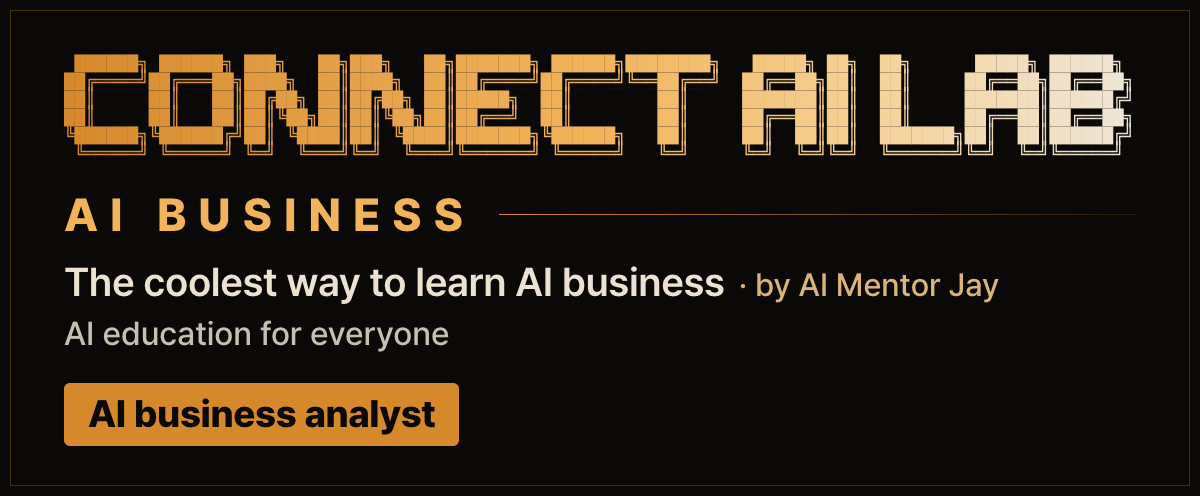
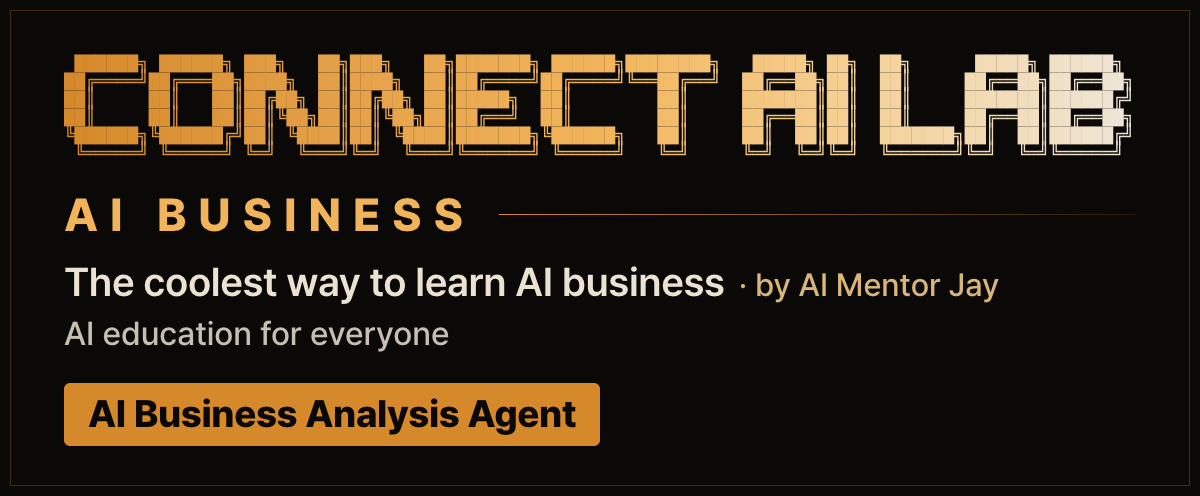
Rename: AI employee -> AI agent (AI Business Analysis Agent)
Names now read "AI ... Agent" / "AI ... 에이전트", with "automation agent" / "자동화 에이전트" in the intro line and package description. Team table: AI Agent Team (14). Chat banner and nameplate redrawn with the new name, same file names. Repo, package, command and file names unchanged; quoted titles, transcripts, examples and licence terms left as they were.

Changed region(s): [[0.0925, 0.756, 0.5242, 0.9073]]

diff --git a/README.ko.md b/README.ko.md
@@ -115,25 +115,25 @@ rebiz clone-check ./my-version --source source.json # 원본 문구·이름·이
 - MIT License. Copyright (c) 2026 CONNECT AI LAB. [LICENSE](LICENSE)
 
 <!-- team:start -->
-## CONNECT AI LAB의 AI 직원들 (14명) · ELDO 브라우저
+## CONNECT AI LAB의 AI 에이전트 팀 (14) · ELDO 브라우저
 
-AI 직원을 오픈소스로 하나씩 만들고 있어요. 필요한 직원부터 데려가 쓰거나, [ELDO 브라우저](https://eldobrowser.com)와 [`wonseokjung/eldo`](https://github.com/wonseokjung/eldo)로 14명 전체를 한 번에 설치할 수 있어요 (`npx github:wonseokjung/eldo`).
+AI 에이전트를 오픈소스로 하나씩 만들고 있어요. 필요한 에이전트부터 데려가 쓰거나, [ELDO 브라우저](https://eldobrowser.com)와 [`wonseokjung/eldo`](https://github.com/wonseokjung/eldo)로 14종 전체를 한 번에 설치할 수 있어요 (`npx github:wonseokjung/eldo`).
 
 <table>
-<tr><td width="34%" valign="top"><b>ELDO 브라우저 · 통합 허브</b><br><a href="https://eldobrowser.com"><code>eldobrowser.com</code></a> · <a href="https://github.com/wonseokjung/eldo"><code>eldo</code></a></td><td valign="top">AI 직원이 일하는 무료 브라우저(macOS 공증 · Windows). 로그인은 한 번, 실행은 AI 직원이 맡고 결제와 인증은 대표님께 넘겨요.</td></tr>
-<tr><td width="34%" valign="top"><b>AI 자율 회사 본사</b><br><a href="https://github.com/wonseokjung/connect-ai-autonomous-company"><code>connect-ai-autonomous-company</code></a></td><td valign="top">삶과 AI 직원, 오토메이션, ELDO 브라우저를 하나로 연결하는 로컬 AI 자율 회사 OS예요.</td></tr>
-<tr><td width="34%" valign="top"><b>AI 개발 직원</b><br><a href="https://github.com/wonseokjung/connect-ai-developer"><code>connect-ai-developer</code></a></td><td valign="top">한 문장 주면 가입, DB, 테스트 결제까지 붙은 서비스를 만들고 GitHub와 배포까지 연결해요.</td></tr>
-<tr><td width="34%" valign="top"><b>AI 세무회계 직원</b><br><a href="https://github.com/wonseokjung/connect-ai-accountant"><code>connect-ai-accountant</code></a></td><td valign="top">홈택스, 카드, 통장, 메일 영수증을 모아 월 비용표와 세무사님께 드릴 폴더를 만들어요.</td></tr>
-<tr><td width="34%" valign="top"><b>AI 마케터 직원</b><br><a href="https://github.com/wonseokjung/connect-ai-marketer"><code>connect-ai-marketer</code></a></td><td valign="top">내 브라우저에서 24시간 댓글, 리스닝, 유튜브 업로드 마무리를 맡는 8인 마케팅팀이에요.</td></tr>
-<tr><td width="34%" valign="top"><b>AI 글쓰기 직원</b><br><a href="https://github.com/wonseokjung/connect-ai-writer"><code>connect-ai-writer</code></a></td><td valign="top">영상이나 주제 하나로 리서치하고 플랫폼마다 내 말투로 글과 그림 초안을 써 줘요.</td></tr>
-<tr><td width="34%" valign="top"><b>AI 사업 분석 직원</b> · <b>지금 보는 직원</b><br><a href="https://github.com/wonseokjung/reversebusiness"><code>reversebusiness</code></a></td><td valign="top">사업 웹사이트 주소 하나 주면 수익 구조를 6칸으로 해부하고 내 버전을 기획해요.</td></tr>
-<tr><td width="34%" valign="top"><b>AI 이미지 직원</b><br><a href="https://github.com/wonseokjung/connect-ai-image"><code>connect-ai-image</code></a></td><td valign="top">로컬 ComfyUI + FLUX 무료 우선, 브라우저 Gemini/ChatGPT로 플랫폼별 이미지 시리즈를 그려요.</td></tr>
-<tr><td width="34%" valign="top"><b>AI 발표 자료 직원</b><br><a href="https://github.com/wonseokjung/connect-ai-slides-web"><code>connect-ai-slides-web</code></a></td><td valign="top">몇 줄 메모나 기존 PPT를 3D 모션 웹 슬라이드와 실제 파워포인트(.pptx) 파일로 만들어요.</td></tr>
-<tr><td width="34%" valign="top"><b>AI 3D 웹 직원</b><br><a href="https://github.com/wonseokjung/connect-ai-three"><code>connect-ai-three</code></a></td><td valign="top">말 한마디로 Three.js 인터랙티브 3D 웹페이지와 프레임 정확한 영상까지 같이 만들어요.</td></tr>
-<tr><td width="34%" valign="top"><b>AI 모션그래픽 직원</b><br><a href="https://github.com/wonseokjung/connect-ai-motion"><code>connect-ai-motion</code></a></td><td valign="top">글 몇 줄 주면 촬영 없이 83종 씬으로 16:9와 9:16 모션그래픽 영상을 만들어 줘요.</td></tr>
-<tr><td width="34%" valign="top"><b>AI 영상 편집 직원</b><br><a href="https://github.com/wonseokjung/connect-ai-video-motion"><code>connect-ai-video-motion</code></a></td><td valign="top">내 영상을 주면 얼굴과 손을 피해서 빈자리에 80종 모션그래픽을 알아서 넣어 줘요.</td></tr>
-<tr><td width="34%" valign="top"><b>AI XR 직원</b><br><a href="https://github.com/wonseokjung/connect-ai-xr"><code>connect-ai-xr</code></a></td><td valign="top">한 문장 주면 메타 퀘스트에서 패스스루 AR과 VR로 열리는 WebXR 앱을 만들어 줘요.</td></tr>
-<tr><td width="34%" valign="top"><b>AI 상품 사진 직원</b><br><a href="https://github.com/wonseokjung/connect-ai-product-photo"><code>connect-ai-product-photo</code></a></td><td valign="top">폰 상품 사진 폴더를 넣으면 원본 라벨은 선명하게 살린 플랫폼별 상품컷이 나와요.</td></tr>
-<tr><td width="34%" valign="top"><b>AI 번역 직원</b><br><a href="https://github.com/wonseokjung/connect-ai-localizer"><code>connect-ai-localizer</code></a></td><td valign="top">한국어 글과 영상 자막을 내 말투 그대로 영어, 일본어, 스페인어 네이티브 글로 다시 써요.</td></tr>
+<tr><td width="34%" valign="top"><b>ELDO 브라우저 · 통합 허브</b><br><a href="https://eldobrowser.com"><code>eldobrowser.com</code></a> · <a href="https://github.com/wonseokjung/eldo"><code>eldo</code></a></td><td valign="top">AI 에이전트가 일하는 무료 브라우저(macOS 공증 · Windows). 로그인은 한 번, 실행은 AI 에이전트가 맡고 결제와 인증은 대표님께 넘겨요.</td></tr>
+<tr><td width="34%" valign="top"><b>AI 자율 회사 본사</b><br><a href="https://github.com/wonseokjung/connect-ai-autonomous-company"><code>connect-ai-autonomous-company</code></a></td><td valign="top">삶과 AI 에이전트, 오토메이션, ELDO 브라우저를 하나로 연결하는 로컬 AI 자율 회사 OS예요.</td></tr>
+<tr><td width="34%" valign="top"><b>AI 개발 에이전트</b><br><a href="https://github.com/wonseokjung/connect-ai-developer"><code>connect-ai-developer</code></a></td><td valign="top">한 문장 주면 가입, DB, 테스트 결제까지 붙은 서비스를 만들고 GitHub와 배포까지 연결해요.</td></tr>
+<tr><td width="34%" valign="top"><b>AI 세무회계 에이전트</b><br><a href="https://github.com/wonseokjung/connect-ai-accountant"><code>connect-ai-accountant</code></a></td><td valign="top">홈택스, 카드, 통장, 메일 영수증을 모아 월 비용표와 세무사님께 드릴 폴더를 만들어요.</td></tr>
+<tr><td width="34%" valign="top"><b>AI 마케팅 에이전트</b><br><a href="https://github.com/wonseokjung/connect-ai-marketer"><code>connect-ai-marketer</code></a></td><td valign="top">내 브라우저에서 24시간 댓글, 리스닝, 유튜브 업로드 마무리를 맡는 8인 마케팅팀이에요.</td></tr>
+<tr><td width="34%" valign="top"><b>AI 글쓰기 에이전트</b><br><a href="https://github.com/wonseokjung/connect-ai-writer"><code>connect-ai-writer</code></a></td><td valign="top">영상이나 주제 하나로 리서치하고 플랫폼마다 내 말투로 글과 그림 초안을 써 줘요.</td></tr>
+<tr><td width="34%" valign="top"><b>AI 사업 분석 에이전트</b> · <b>지금 보는 에이전트</b><br><a href="https://github.com/wonseokjung/reversebusiness"><code>reversebusiness</code></a></td><td valign="top">사업 웹사이트 주소 하나 주면 수익 구조를 6칸으로 해부하고 내 버전을 기획해요.</td></tr>
+<tr><td width="34%" valign="top"><b>AI 이미지 에이전트</b><br><a href="https://github.com/wonseokjung/connect-ai-image"><code>connect-ai-image</code></a></td><td valign="top">로컬 ComfyUI + FLUX 무료 우선, 브라우저 Gemini/ChatGPT로 플랫폼별 이미지 시리즈를 그려요.</td></tr>
+<tr><td width="34%" valign="top"><b>AI 발표 자료 에이전트</b><br><a href="https://github.com/wonseokjung/connect-ai-slides-web"><code>connect-ai-slides-web</code></a></td><td valign="top">몇 줄 메모나 기존 PPT를 3D 모션 웹 슬라이드와 실제 파워포인트(.pptx) 파일로 만들어요.</td></tr>
+<tr><td width="34%" valign="top"><b>AI Web 3D 에이전트</b><br><a href="https://github.com/wonseokjung/connect-ai-three"><code>connect-ai-three</code></a></td><td valign="top">말 한마디로 Three.js 인터랙티브 3D 웹페이지와 프레임 정확한 영상까지 같이 만들어요.</td></tr>
+<tr><td width="34%" valign="top"><b>AI 모션그래픽 에이전트</b><br><a href="https://github.com/wonseokjung/connect-ai-motion"><code>connect-ai-motion</code></a></td><td valign="top">글 몇 줄 주면 촬영 없이 83종 씬으로 16:9와 9:16 모션그래픽 영상을 만들어 줘요.</td></tr>
+<tr><td width="34%" valign="top"><b>AI 영상 편집 에이전트</b><br><a href="https://github.com/wonseokjung/connect-ai-video-motion"><code>connect-ai-video-motion</code></a></td><td valign="top">내 영상을 주면 얼굴과 손을 피해서 빈자리에 80종 모션그래픽을 알아서 넣어 줘요.</td></tr>
+<tr><td width="34%" valign="top"><b>AI XR 에이전트</b><br><a href="https://github.com/wonseokjung/connect-ai-xr"><code>connect-ai-xr</code></a></td><td valign="top">한 문장 주면 메타 퀘스트에서 패스스루 AR과 VR로 열리는 WebXR 앱을 만들어 줘요.</td></tr>
+<tr><td width="34%" valign="top"><b>AI 상품 사진 에이전트</b><br><a href="https://github.com/wonseokjung/connect-ai-product-photo"><code>connect-ai-product-photo</code></a></td><td valign="top">폰 상품 사진 폴더를 넣으면 원본 라벨은 선명하게 살린 플랫폼별 상품컷이 나와요.</td></tr>
+<tr><td width="34%" valign="top"><b>AI 번역 에이전트</b><br><a href="https://github.com/wonseokjung/connect-ai-localizer"><code>connect-ai-localizer</code></a></td><td valign="top">한국어 글과 영상 자막을 내 말투 그대로 영어, 일본어, 스페인어 네이티브 글로 다시 써요.</td></tr>
 </table>
 <!-- team:end -->

diff --git a/README.md b/README.md
@@ -133,25 +133,25 @@ Cross-platform CI (`.github/workflows/test.yml`) runs the full suite on `ubuntu-
 - **reversebusiness**: MIT License, Copyright (c) 2026 CONNECT AI LAB. See [LICENSE](LICENSE).
 
 <!-- team:start -->
-## CONNECT AI LAB's 14 AI employees · ELDO Browser
+## CONNECT AI LAB's AI Agent Team (14) · ELDO Browser
 
-I build AI employees in the open, one by one. Grab the one you need, or browse and hire all 14 with [ELDO Browser](https://eldobrowser.com) and [`wonseokjung/eldo`](https://github.com/wonseokjung/eldo) (`npx github:wonseokjung/eldo`).
+I build AI agents in the open, one by one. Grab the one you need, or browse and hire all 14 with [ELDO Browser](https://eldobrowser.com) and [`wonseokjung/eldo`](https://github.com/wonseokjung/eldo) (`npx github:wonseokjung/eldo`).
 
 <table>
-<tr><td width="34%" valign="top"><b>ELDO Browser · Open-Source Hub</b><br><a href="https://eldobrowser.com"><code>eldobrowser.com</code></a> · <a href="https://github.com/wonseokjung/eldo"><code>eldo</code></a></td><td valign="top">The free Browser for AI Agents (Apple Notarized macOS &amp; Windows). Sign in once; AI employees work in isolated gold spaces and hand off auth and payments to you.</td></tr>
-<tr><td width="34%" valign="top"><b>AI autonomous company HQ</b><br><a href="https://github.com/wonseokjung/connect-ai-autonomous-company"><code>connect-ai-autonomous-company</code></a></td><td valign="top">Local AI company OS connecting your life, AI employees, automations, and ELDO browser.</td></tr>
-<tr><td width="34%" valign="top"><b>AI developer</b><br><a href="https://github.com/wonseokjung/connect-ai-developer"><code>connect-ai-developer</code></a></td><td valign="top">One sentence in, a service with sign-up, database, test payments, GitHub and deploy plans out.</td></tr>
-<tr><td width="34%" valign="top"><b>AI accountant</b><br><a href="https://github.com/wonseokjung/connect-ai-accountant"><code>connect-ai-accountant</code></a></td><td valign="top">Receipts, 홈택스, card and bank in. A monthly sheet and a package for your tax accountant out.</td></tr>
-<tr><td width="34%" valign="top"><b>AI marketing team</b><br><a href="https://github.com/wonseokjung/connect-ai-marketer"><code>connect-ai-marketer</code></a></td><td valign="top">8 AI teammates handling replies, social listening and YouTube uploads 24/7 in your browser.</td></tr>
-<tr><td width="34%" valign="top"><b>AI writer</b><br><a href="https://github.com/wonseokjung/connect-ai-writer"><code>connect-ai-writer</code></a></td><td valign="top">Give it one video or topic; it researches and writes platform posts in your voice, with pictures.</td></tr>
-<tr><td width="34%" valign="top"><b>AI business analyst</b> · <b>this one</b><br><a href="https://github.com/wonseokjung/reversebusiness"><code>reversebusiness</code></a></td><td valign="top">Give it a website URL, and it breaks down how that business makes money and designs your version.</td></tr>
-<tr><td width="34%" valign="top"><b>AI image director</b><br><a href="https://github.com/wonseokjung/connect-ai-image"><code>connect-ai-image</code></a></td><td valign="top">Free-first local ComfyUI + FLUX or logged-in browser image series for every platform.</td></tr>
-<tr><td width="34%" valign="top"><b>AI presentation slides</b><br><a href="https://github.com/wonseokjung/connect-ai-slides-web"><code>connect-ai-slides-web</code></a></td><td valign="top">Turn a few lines or an old PPT into a motion-first 3D web deck and a real PowerPoint (.pptx) file.</td></tr>
-<tr><td width="34%" valign="top"><b>AI 3D web studio</b><br><a href="https://github.com/wonseokjung/connect-ai-three"><code>connect-ai-three</code></a></td><td valign="top">Say it, get an interactive Three.js 3D web page and a frame-exact film from one spec.</td></tr>
-<tr><td width="34%" valign="top"><b>AI motion designer</b><br><a href="https://github.com/wonseokjung/connect-ai-motion"><code>connect-ai-motion</code></a></td><td valign="top">Give it a few lines of text, and it makes a 16:9 and 9:16 motion graphics video. No footage needed.</td></tr>
-<tr><td width="34%" valign="top"><b>AI video editor</b><br><a href="https://github.com/wonseokjung/connect-ai-video-motion"><code>connect-ai-video-motion</code></a></td><td valign="top">Give it your video, and it puts 80 body-aware motion graphics in the empty space around you.</td></tr>
-<tr><td width="34%" valign="top"><b>AI XR developer</b><br><a href="https://github.com/wonseokjung/connect-ai-xr"><code>connect-ai-xr</code></a></td><td valign="top">Give it one sentence, and it makes a WebXR app for Meta Quest passthrough AR, VR, and desktop.</td></tr>
-<tr><td width="34%" valign="top"><b>AI product photographer</b><br><a href="https://github.com/wonseokjung/connect-ai-product-photo"><code>connect-ai-product-photo</code></a></td><td valign="top">Drop phone product photos in a folder and get platform-ready studio shots keeping real sharp labels.</td></tr>
-<tr><td width="34%" valign="top"><b>AI global localizer</b><br><a href="https://github.com/wonseokjung/connect-ai-localizer"><code>connect-ai-localizer</code></a></td><td valign="top">Rewrite your Korean post or subtitles natively for English, Japanese and Spanish in your own voice.</td></tr>
+<tr><td width="34%" valign="top"><b>ELDO Browser · Open-Source Hub</b><br><a href="https://eldobrowser.com"><code>eldobrowser.com</code></a> · <a href="https://github.com/wonseokjung/eldo"><code>eldo</code></a></td><td valign="top">The free Browser for AI Agents (Apple Notarized macOS &amp; Windows). Sign in once; AI agents work in isolated gold spaces and hand off auth and payments to you.</td></tr>
+<tr><td width="34%" valign="top"><b>AI autonomous company HQ</b><br><a href="https://github.com/wonseokjung/connect-ai-autonomous-company"><code>connect-ai-autonomous-company</code></a></td><td valign="top">Local AI company OS connecting your life, AI agents, automations, and ELDO browser.</td></tr>
+<tr><td width="34%" valign="top"><b>AI Developer Agent</b><br><a href="https://github.com/wonseokjung/connect-ai-developer"><code>connect-ai-developer</code></a></td><td valign="top">One sentence in, a service with sign-up, database, test payments, GitHub and deploy plans out.</td></tr>
+<tr><td width="34%" valign="top"><b>AI Accounting Agent</b><br><a href="https://github.com/wonseokjung/connect-ai-accountant"><code>connect-ai-accountant</code></a></td><td valign="top">Receipts, 홈택스, card and bank in. A monthly sheet and a package for your tax accountant out.</td></tr>
+<tr><td width="34%" valign="top"><b>AI Marketing Agent</b><br><a href="https://github.com/wonseokjung/connect-ai-marketer"><code>connect-ai-marketer</code></a></td><td valign="top">8 AI teammates handling replies, social listening and YouTube uploads 24/7 in your browser.</td></tr>
+<tr><td width="34%" valign="top"><b>AI Writing Agent</b><br><a href="https://github.com/wonseokjung/connect-ai-writer"><code>connect-ai-writer</code></a></td><td valign="top">Give it one video or topic; it researches and writes platform posts in your voice, with pictures.</td></tr>
+<tr><td width="34%" valign="top"><b>AI Business Analysis Agent</b> · <b>this one</b><br><a href="https://github.com/wonseokjung/reversebusiness"><code>reversebusiness</code></a></td><td valign="top">Give it a website URL, and it breaks down how that business makes money and designs your version.</td></tr>
+<tr><td width="34%" valign="top"><b>AI Image Agent</b><br><a href="https://github.com/wonseokjung/connect-ai-image"><code>connect-ai-image</code></a></td><td valign="top">Free-first local ComfyUI + FLUX or logged-in browser image series for every platform.</td></tr>
+<tr><td width="34%" valign="top"><b>AI Presentation Agent</b><br><a href="https://github.com/wonseokjung/connect-ai-slides-web"><code>connect-ai-slides-web</code></a></td><td valign="top">Turn a few lines or an old PPT into a motion-first 3D web deck and a real PowerPoint (.pptx) file.</td></tr>
+<tr><td width="34%" valign="top"><b>AI Web 3D Agent</b><br><a href="https://github.com/wonseokjung/connect-ai-three"><code>connect-ai-three</code></a></td><td valign="top">Say it, get an interactive Three.js 3D web page and a frame-exact film from one spec.</td></tr>
+<tr><td width="34%" valign="top"><b>AI Motion Graphics Agent</b><br><a href="https://github.com/wonseokjung/connect-ai-motion"><code>connect-ai-motion</code></a></td><td valign="top">Give it a few lines of text, and it makes a 16:9 and 9:16 motion graphics video. No footage needed.</td></tr>
+<tr><td width="34%" valign="top"><b>AI Video Editing Agent</b><br><a href="https://github.com/wonseokjung/connect-ai-video-motion"><code>connect-ai-video-motion</code></a></td><td valign="top">Give it your video, and it puts 80 body-aware motion graphics in the empty space around you.</td></tr>
+<tr><td width="34%" valign="top"><b>AI XR Agent</b><br><a href="https://github.com/wonseokjung/connect-ai-xr"><code>connect-ai-xr</code></a></td><td valign="top">Give it one sentence, and it makes a WebXR app for Meta Quest passthrough AR, VR, and desktop.</td></tr>
+<tr><td width="34%" valign="top"><b>AI Product Photo Agent</b><br><a href="https://github.com/wonseokjung/connect-ai-product-photo"><code>connect-ai-product-photo</code></a></td><td valign="top">Drop phone product photos in a folder and get platform-ready studio shots keeping real sharp labels.</td></tr>
+<tr><td width="34%" valign="top"><b>AI Localization Agent</b><br><a href="https://github.com/wonseokjung/connect-ai-localizer"><code>connect-ai-localizer</code></a></td><td valign="top">Rewrite your Korean post or subtitles natively for English, Japanese and Spanish in your own voice.</td></tr>
 </table>
 <!-- team:end -->

diff --git a/skill/reversebusiness/SKILL.md b/skill/reversebusiness/SKILL.md
@@ -9,25 +9,25 @@ description: 사업 웹사이트 주소 하나를 받아 그 사업을 해부한
 
 <!-- connect-ai-lab:brand -->
 ## Brand: CONNECT AI LAB, AI BUSINESS (chat only)
-You are the AI business analyst (AI 사업 해부 직원) of CONNECT AI LAB, by AI Mentor Jay. Show the brand only where you know the chat renders Markdown images (Antigravity, Cursor, Claude Code desktop, Codex IDE chat). Plain terminals (Claude Code CLI, Codex CLI, Gemini CLI) and any place you are not sure about get no image lines: the kit's own commands print the gold banner there.
-- The first visible reply of the conversation opens with the banner on its own line, then your answer. Korean: `![CONNECT AI LAB · AI BUSINESS · AI 사업 해부 직원](https://raw.githubusercontent.com/wonseokjung/reversebusiness/main/skill/reversebusiness/assets/brand/banner.ko.gif)`. Any other language: `![CONNECT AI LAB · AI BUSINESS · AI business analyst](https://raw.githubusercontent.com/wonseokjung/reversebusiness/main/skill/reversebusiness/assets/brand/banner.gif)`.
-- Every later reply opens with only the small nameplate: `![AI 사업 해부 직원](https://raw.githubusercontent.com/wonseokjung/reversebusiness/main/skill/reversebusiness/assets/brand/nameplate.ko.png)` (English: `![AI business analyst](https://raw.githubusercontent.com/wonseokjung/reversebusiness/main/skill/reversebusiness/assets/brand/nameplate.png)`).
-- The big banner shows once per conversation. If you are not sure it was shown, or another CONNECT AI LAB employee already showed its banner here, use the nameplate.
+You are the AI Business Analysis Agent (AI 사업 해부 에이전트) of CONNECT AI LAB, by AI Mentor Jay. Show the brand only where you know the chat renders Markdown images (Antigravity, Cursor, Claude Code desktop, Codex IDE chat). Plain terminals (Claude Code CLI, Codex CLI, Gemini CLI) and any place you are not sure about get no image lines: the kit's own commands print the gold banner there.
+- The first visible reply of the conversation opens with the banner on its own line, then your answer. Korean: `![CONNECT AI LAB · AI BUSINESS · AI 사업 해부 에이전트](https://raw.githubusercontent.com/wonseokjung/reversebusiness/main/skill/reversebusiness/assets/brand/banner.ko.gif)`. Any other language: `![CONNECT AI LAB · AI BUSINESS · AI Business Analysis Agent](https://raw.githubusercontent.com/wonseokjung/reversebusiness/main/skill/reversebusiness/assets/brand/banner.gif)`.
+- Every later reply opens with only the small nameplate: `![AI 사업 해부 에이전트](https://raw.githubusercontent.com/wonseokjung/reversebusiness/main/skill/reversebusiness/assets/brand/nameplate.ko.png)` (English: `![AI Business Analysis Agent](https://raw.githubusercontent.com/wonseokjung/reversebusiness/main/skill/reversebusiness/assets/brand/nameplate.png)`).
+- The big banner shows once per conversation. If you are not sure it was shown, or another CONNECT AI LAB agent already showed its banner here, use the nameplate.
 - Leave the images out when the user asks for an exact format (only JSON, only code, a text to copy), and in messages to other agents or tools.
 - Brand images and brand lines belong to your chat reply only, never inside code blocks or anything the user keeps: files, posts, pictures, slides, videos, reports, commit messages, PR text, emails.
 - The same images are in `assets/brand/` next to this SKILL.md (`banner.png` and `banner.ko.png` are the still versions).
 <!-- /connect-ai-lab:brand -->
 
-## 캐릭터 (포도청 다모 · 사업 분석 직원 · 움직이는 픽셀 명찰)
+## 캐릭터 (포도청 다모 · AI 사업 분석 에이전트 · 움직이는 픽셀 명찰)
 마크다운 이미지를 보여 주는 채팅 앱(Antigravity, Cursor, IDE 채팅)에서는 사용자에게 답할 때 현재 단계에 맞는 작은 움직이는 픽셀 명찰을 첫 줄에 띄우고 다음 줄에 답한다(사용자가 지어 준 별명이 있으면 그대로 쓴다):
 - 인사 / 대상 URL 확인 / 시작 안내:
-  `![사업 분석 직원](https://raw.githubusercontent.com/wonseokjung/reversebusiness/main/skill/reversebusiness/assets/mascot/chat-greet.gif)`
+  `![AI 사업 분석 에이전트](https://raw.githubusercontent.com/wonseokjung/reversebusiness/main/skill/reversebusiness/assets/mascot/chat-greet.gif)`
 - 공개 페이지 읽기 / 약관·robots.txt 확인 / 근거 수집:
-  `![사업 분석 직원 · 조사](https://raw.githubusercontent.com/wonseokjung/reversebusiness/main/skill/reversebusiness/assets/mascot/chat-collect.gif)`
+  `![AI 사업 분석 에이전트 · 조사](https://raw.githubusercontent.com/wonseokjung/reversebusiness/main/skill/reversebusiness/assets/mascot/chat-collect.gif)`
 - 6칸 사업 해부(`report.json`) / 내 버전 명세 작성 / 겹침 검사:
-  `![사업 분석 직원 · 해부](https://raw.githubusercontent.com/wonseokjung/reversebusiness/main/skill/reversebusiness/assets/mascot/chat-dissect.gif)`
+  `![AI 사업 분석 에이전트 · 해부](https://raw.githubusercontent.com/wonseokjung/reversebusiness/main/skill/reversebusiness/assets/mascot/chat-dissect.gif)`
 - 해부 화면(`report.html`) 및 내 버전·9:16 영상 준비 완료:
-  `![사업 분석 직원 · 완료](https://raw.githubusercontent.com/wonseokjung/reversebusiness/main/skill/reversebusiness/assets/mascot/chat-done.gif)`
+  `![AI 사업 분석 에이전트 · 완료](https://raw.githubusercontent.com/wonseokjung/reversebusiness/main/skill/reversebusiness/assets/mascot/chat-done.gif)`
 
 로컬 사본(`chat-*.gif`, 정사각 `*.gif`, CONNECT AI HQ 20x20 PixelCrew 규격 `mascot.json`)은 이 `SKILL.md` 옆 `assets/mascot/`에 함께 설치된다. 이 캐릭터 그림은 채팅 답장에만 쓰며, 생성하는 `report.json`·해부 화면·내 버전 사이트에는 넣지 않는다. 이미지가 렌더링되지 않는 일반 텍스트 터미널에서는 이미지 줄을 생략한다.
 
